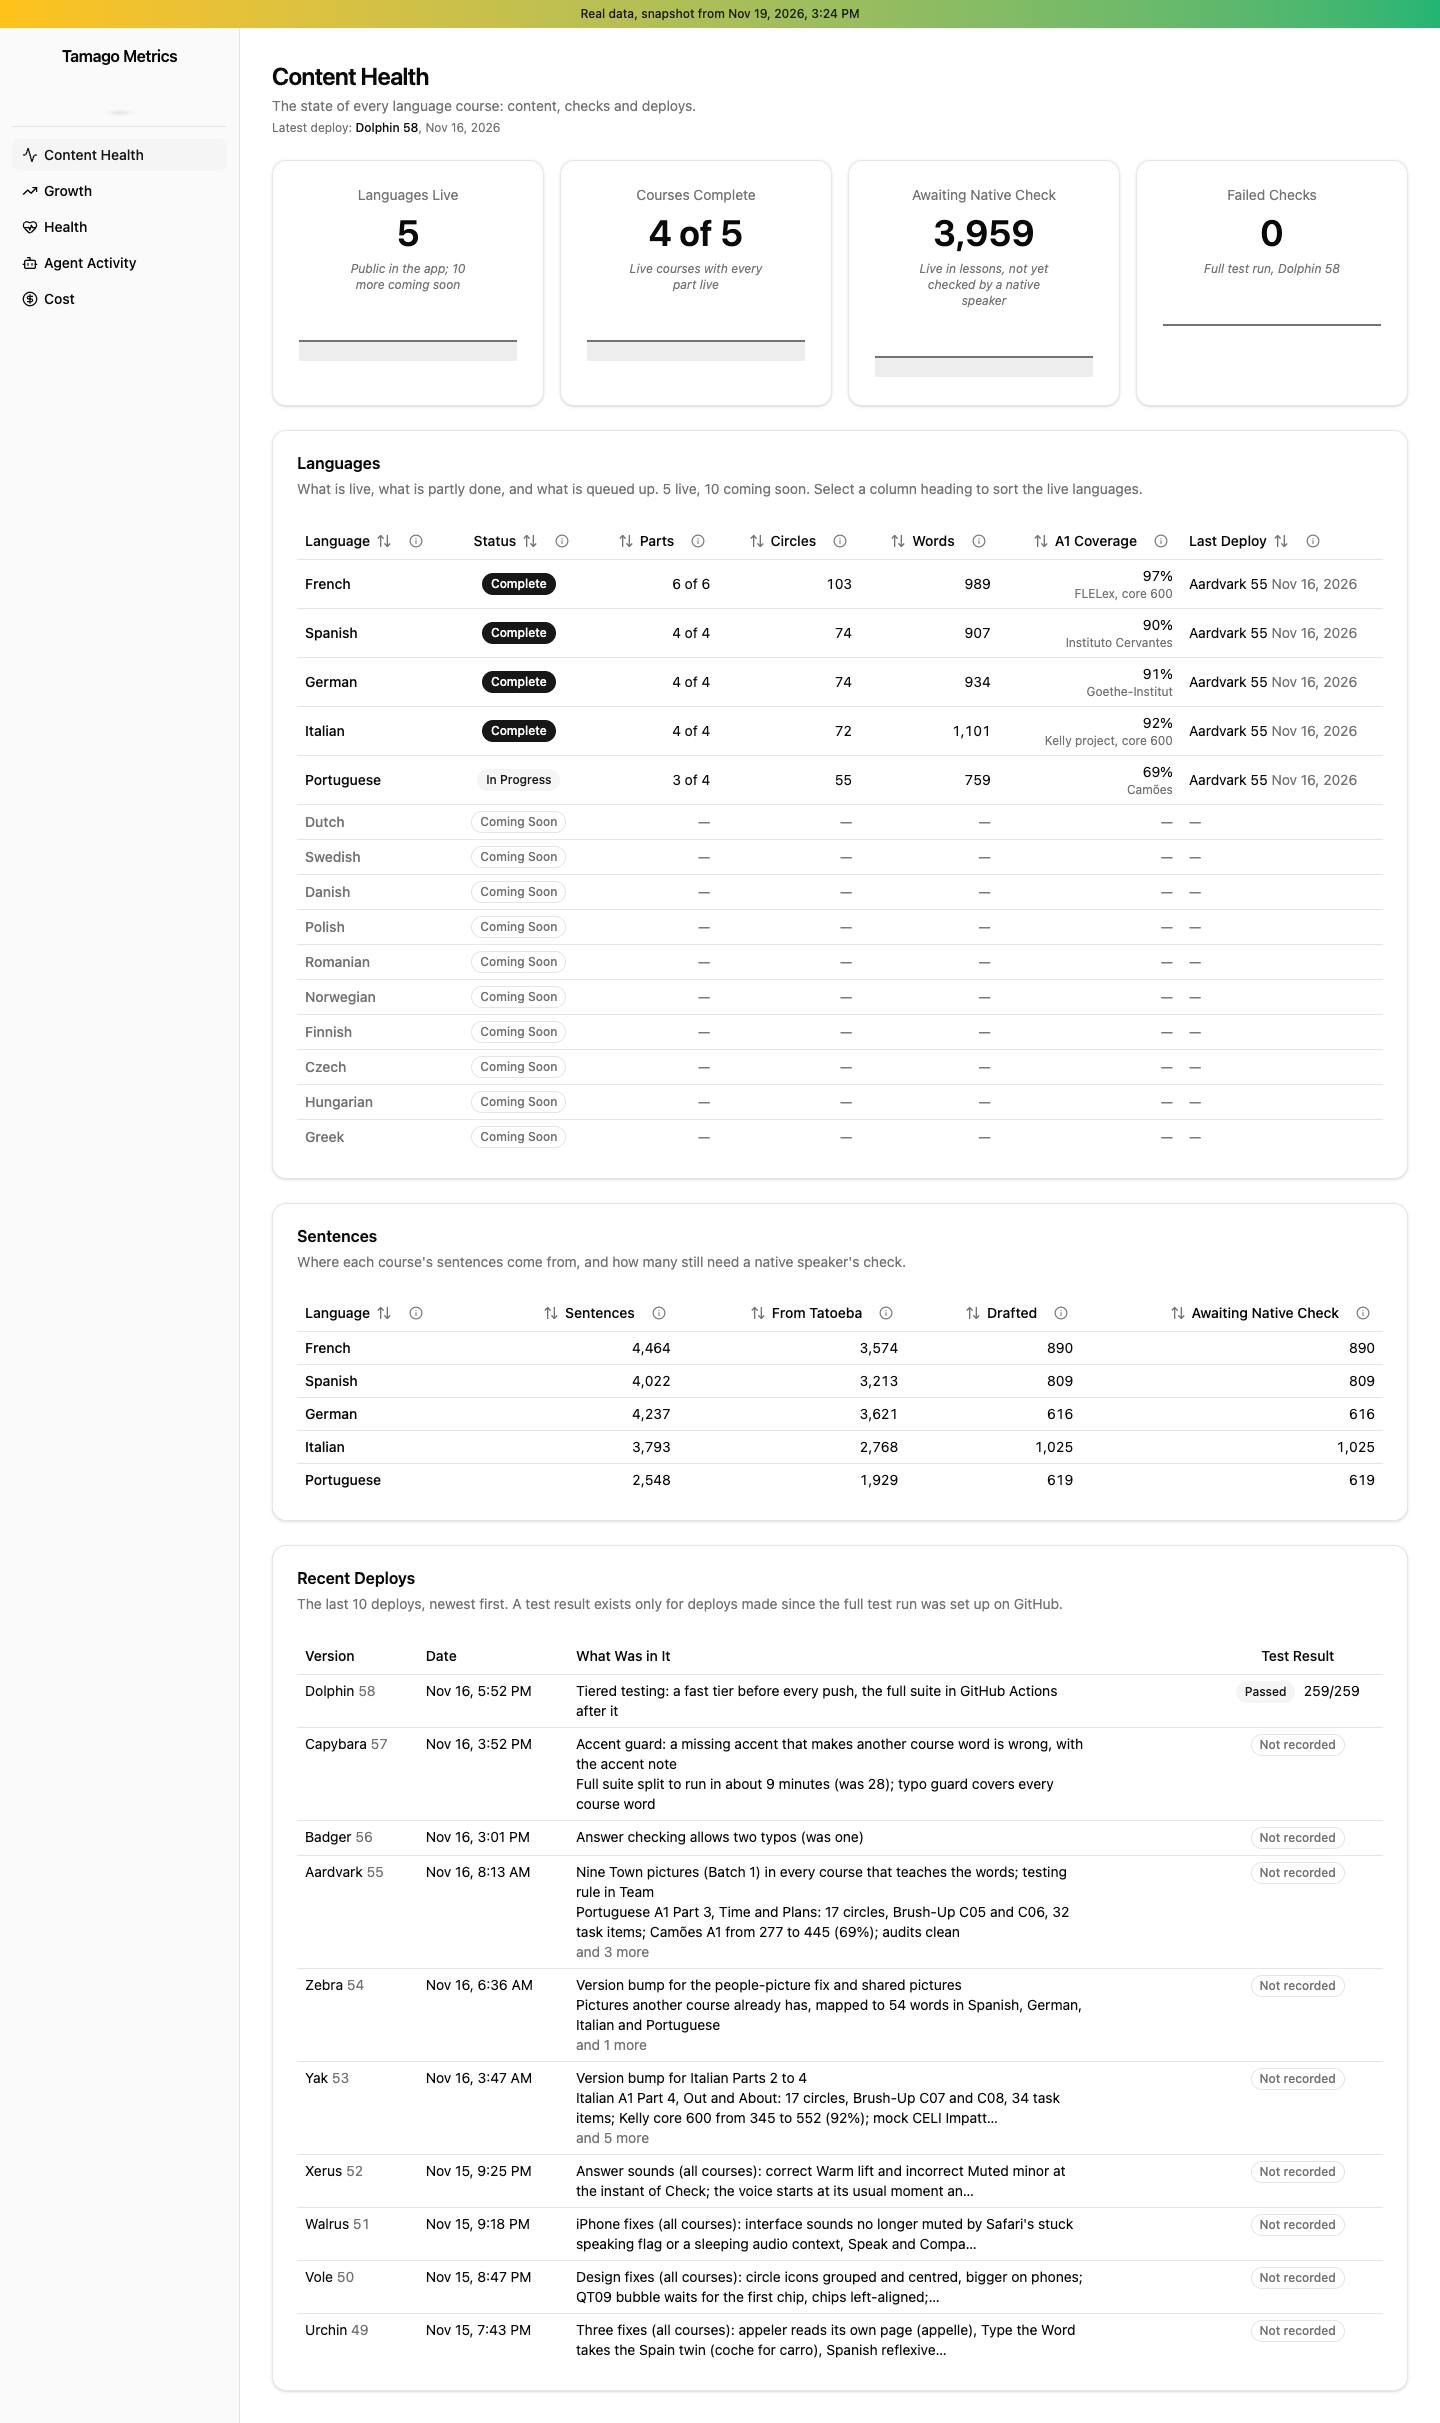
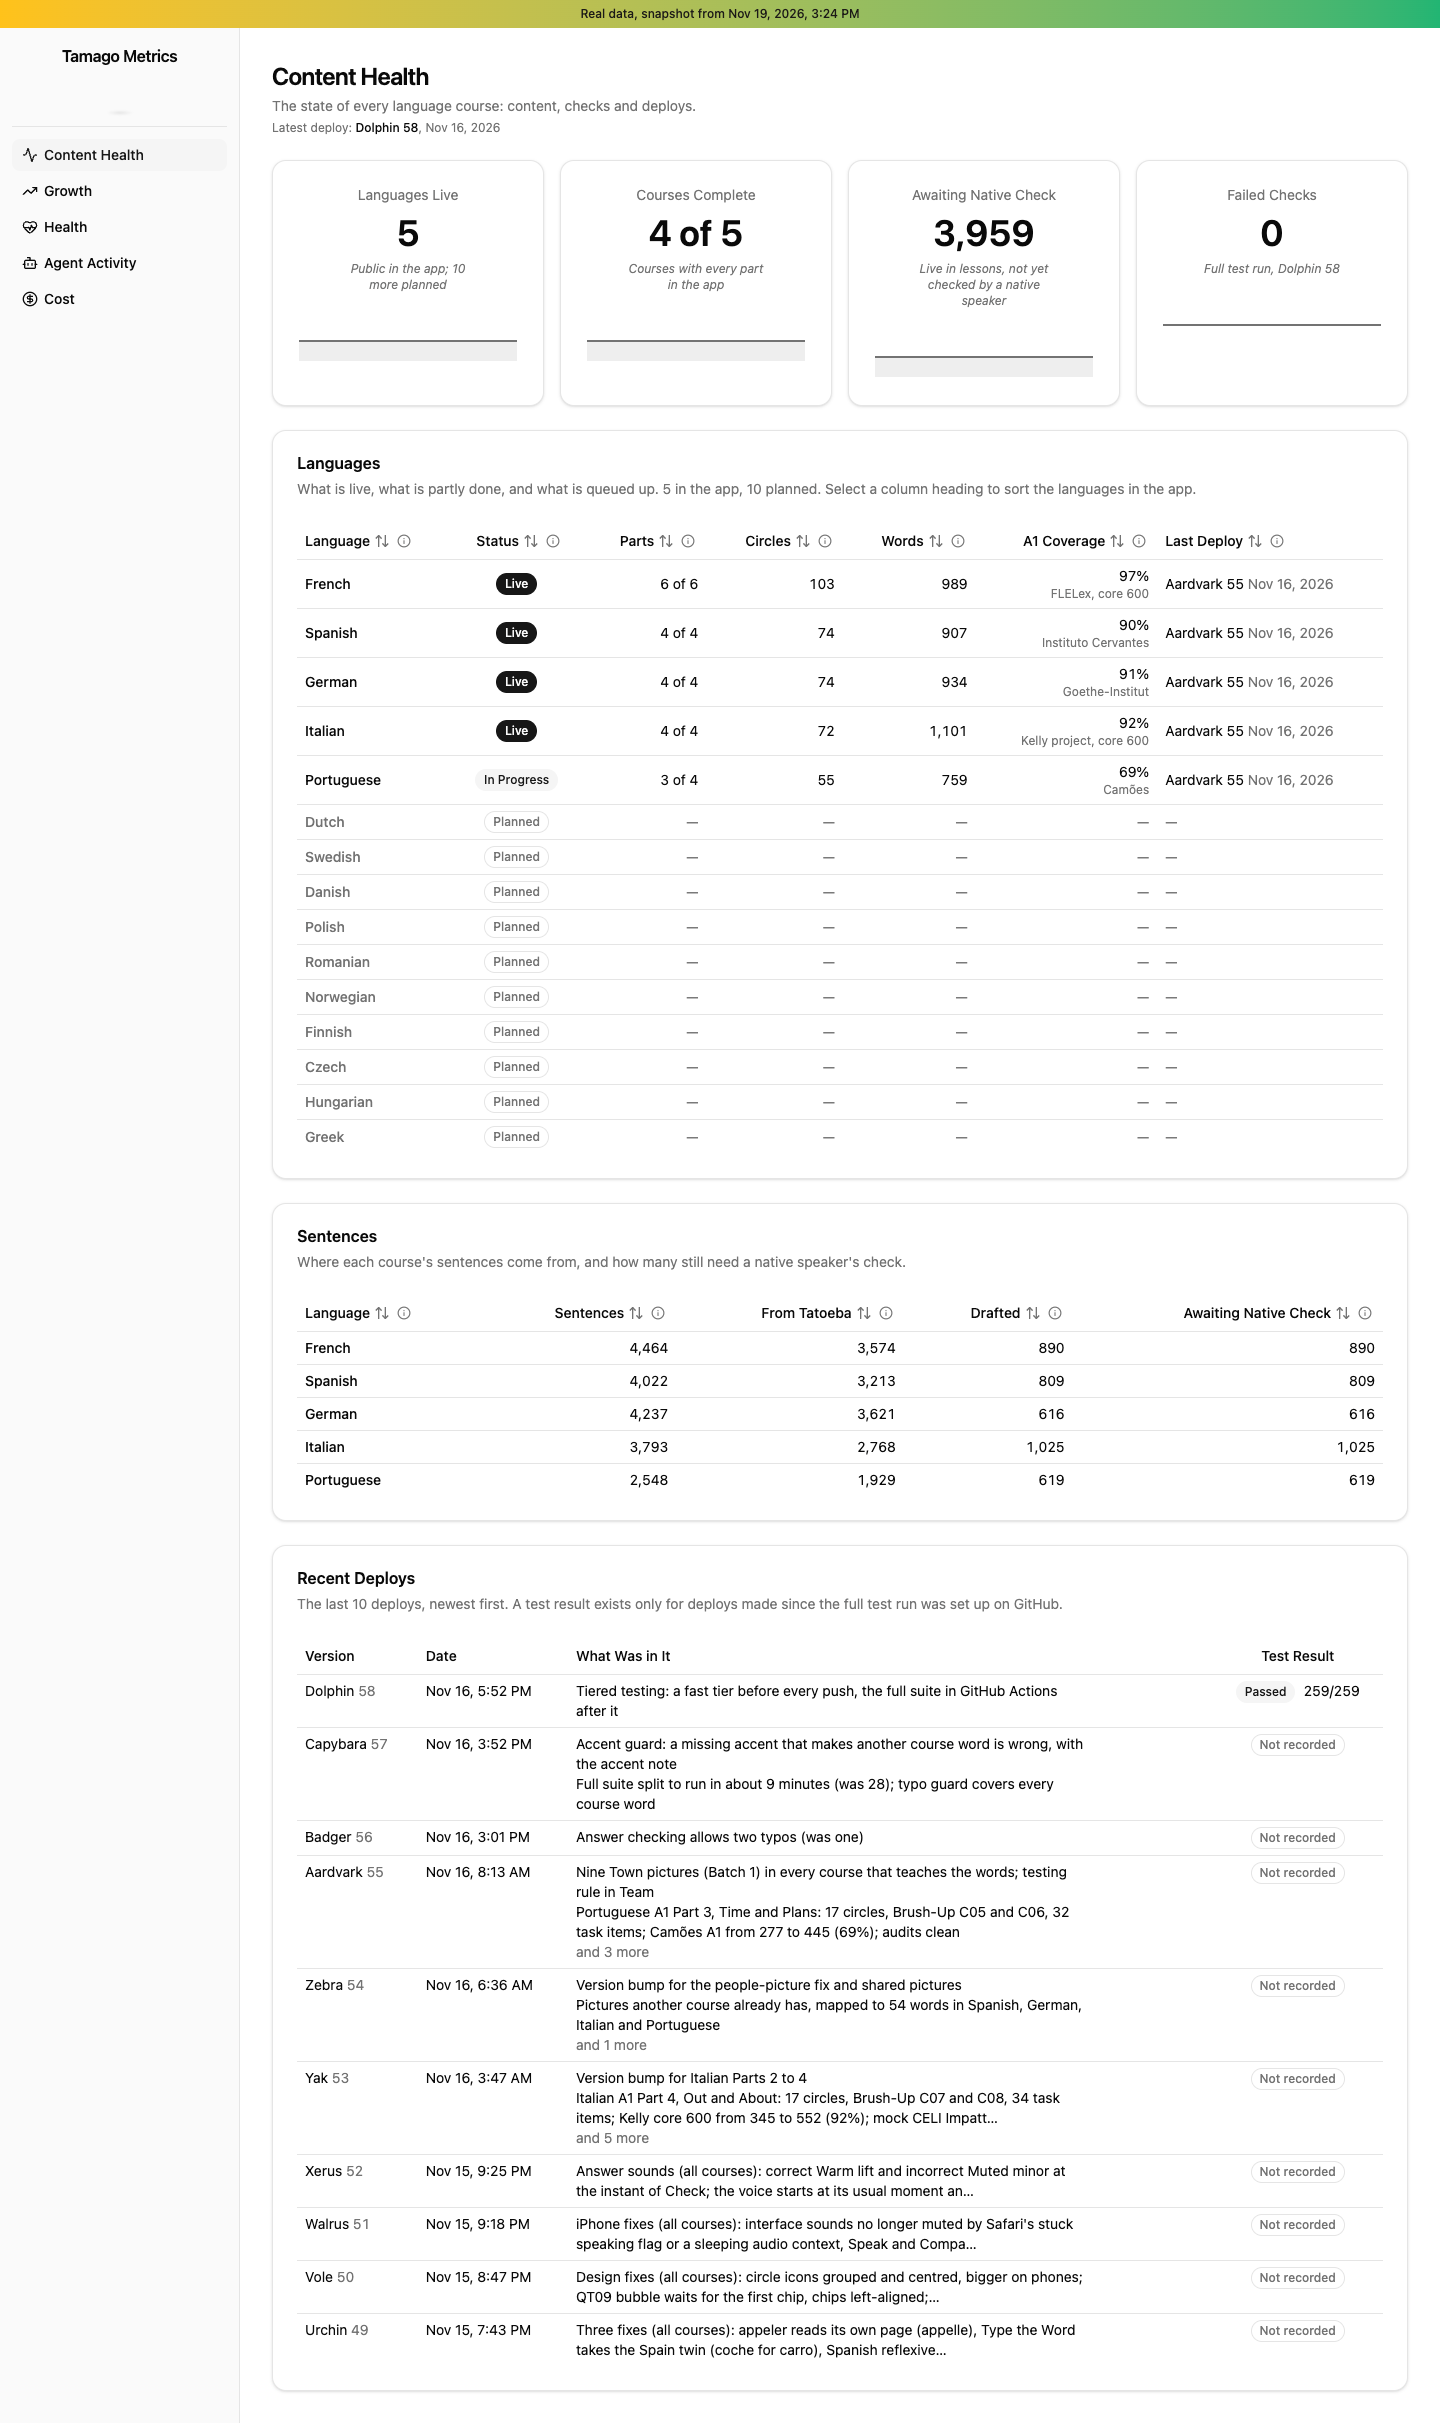
Statuses read Live, In Progress and Planned; headings keep one order, label then sort then info

diff --git a/src/tables/SortableHead.tsx b/src/tables/SortableHead.tsx
@@ -47,22 +47,20 @@ export function SortableHead({
   const icon = (
     <Icon aria-hidden="true" className={cn(direction === 'none' && 'text-muted-foreground')} />
   )
-  const numeric = align === 'right'
-
   return (
     <TableHead aria-sort={direction} className={cn(head, className)}>
-      <div className={cn('flex items-center gap-0.5', justify[align])}>
-        {/* The negative margin lines the heading text up with the cell text below it. In number
-            columns the icon comes first, so the text sits towards the numbers. */}
+      {/* One order in every column (Dan, 2026-11-19): label, sort arrows, info button, kept close
+          together and aligned as a group. The negative margin lines a left-aligned label up with the
+          cells below it; in a right-aligned column the group ends at the column's edge. */}
+      <div className={cn('flex items-center gap-0', justify[align])}>
         <Button
           variant="ghost"
           size="sm"
           onClick={onSort}
-          className={cn(align === 'left' && '-ml-2.5', numeric && !help && '-mr-2.5')}
+          className={cn('gap-1 px-1.5 has-[>svg]:px-1.5', align === 'left' && '-ml-1.5', align === 'right' && !help && '-mr-1.5')}
         >
-          {numeric && icon}
           {label}
-          {!numeric && icon}
+          {icon}
         </Button>
         {help && <ColumnHelp column={label} text={help} />}
       </div>

diff --git a/src/data/real-content.ts b/src/data/real-content.ts
@@ -39,7 +39,7 @@ export const comingSoonLanguages: RealLanguage[] = allLanguages.filter((l) => l.
 /** Every language: the live ones first, then the coming-soon ones. */
 export const realLanguages: RealLanguage[] = [...liveLanguages, ...comingSoonLanguages]
 
-/** Badge text: complete → "Complete", in-progress → "In progress", coming-soon → "Coming Soon". */
+/** Badge text: complete → "Live", in-progress → "In Progress", coming-soon → "Planned". */
 export const realLanguageStatusLabels: Record<'complete' | 'in-progress' | 'coming-soon', string> = labelsJson.realLanguageStatus
 
 /** The key into `realLanguageStatusLabels` for a language. */

diff --git a/src/tables/LanguagesTable.tsx b/src/tables/LanguagesTable.tsx
@@ -121,8 +121,8 @@ export function LanguagesTable() {
         <CardTitle>Languages</CardTitle>
         <CardDescription>
           What is live, what is partly done, and what is queued up.{' '}
-          {formatCount(liveLanguages.length)} live, {formatCount(comingSoonLanguages.length)} coming
-          soon. Select a column heading to sort the live languages.
+          {formatCount(liveLanguages.length)} in the app, {formatCount(comingSoonLanguages.length)} planned.
+          Select a column heading to sort the languages in the app.
         </CardDescription>
       </CardHeader>
       <CardContent>

diff --git a/src/tables/ColumnHelp.tsx b/src/tables/ColumnHelp.tsx
@@ -15,7 +15,7 @@ export function ColumnHelp({ column, text }: ColumnHelpProps) {
   return (
     <Tooltip>
       <TooltipTrigger asChild>
-        <Button variant="ghost" size="icon-xs" aria-label={`About ${column}`}>
+        <Button variant="ghost" size="icon-xs" aria-label={`About ${column}`} className="-ml-0.5 size-5">
           <Info aria-hidden="true" className="size-3.5 text-muted-foreground" />
         </Button>
       </TooltipTrigger>
